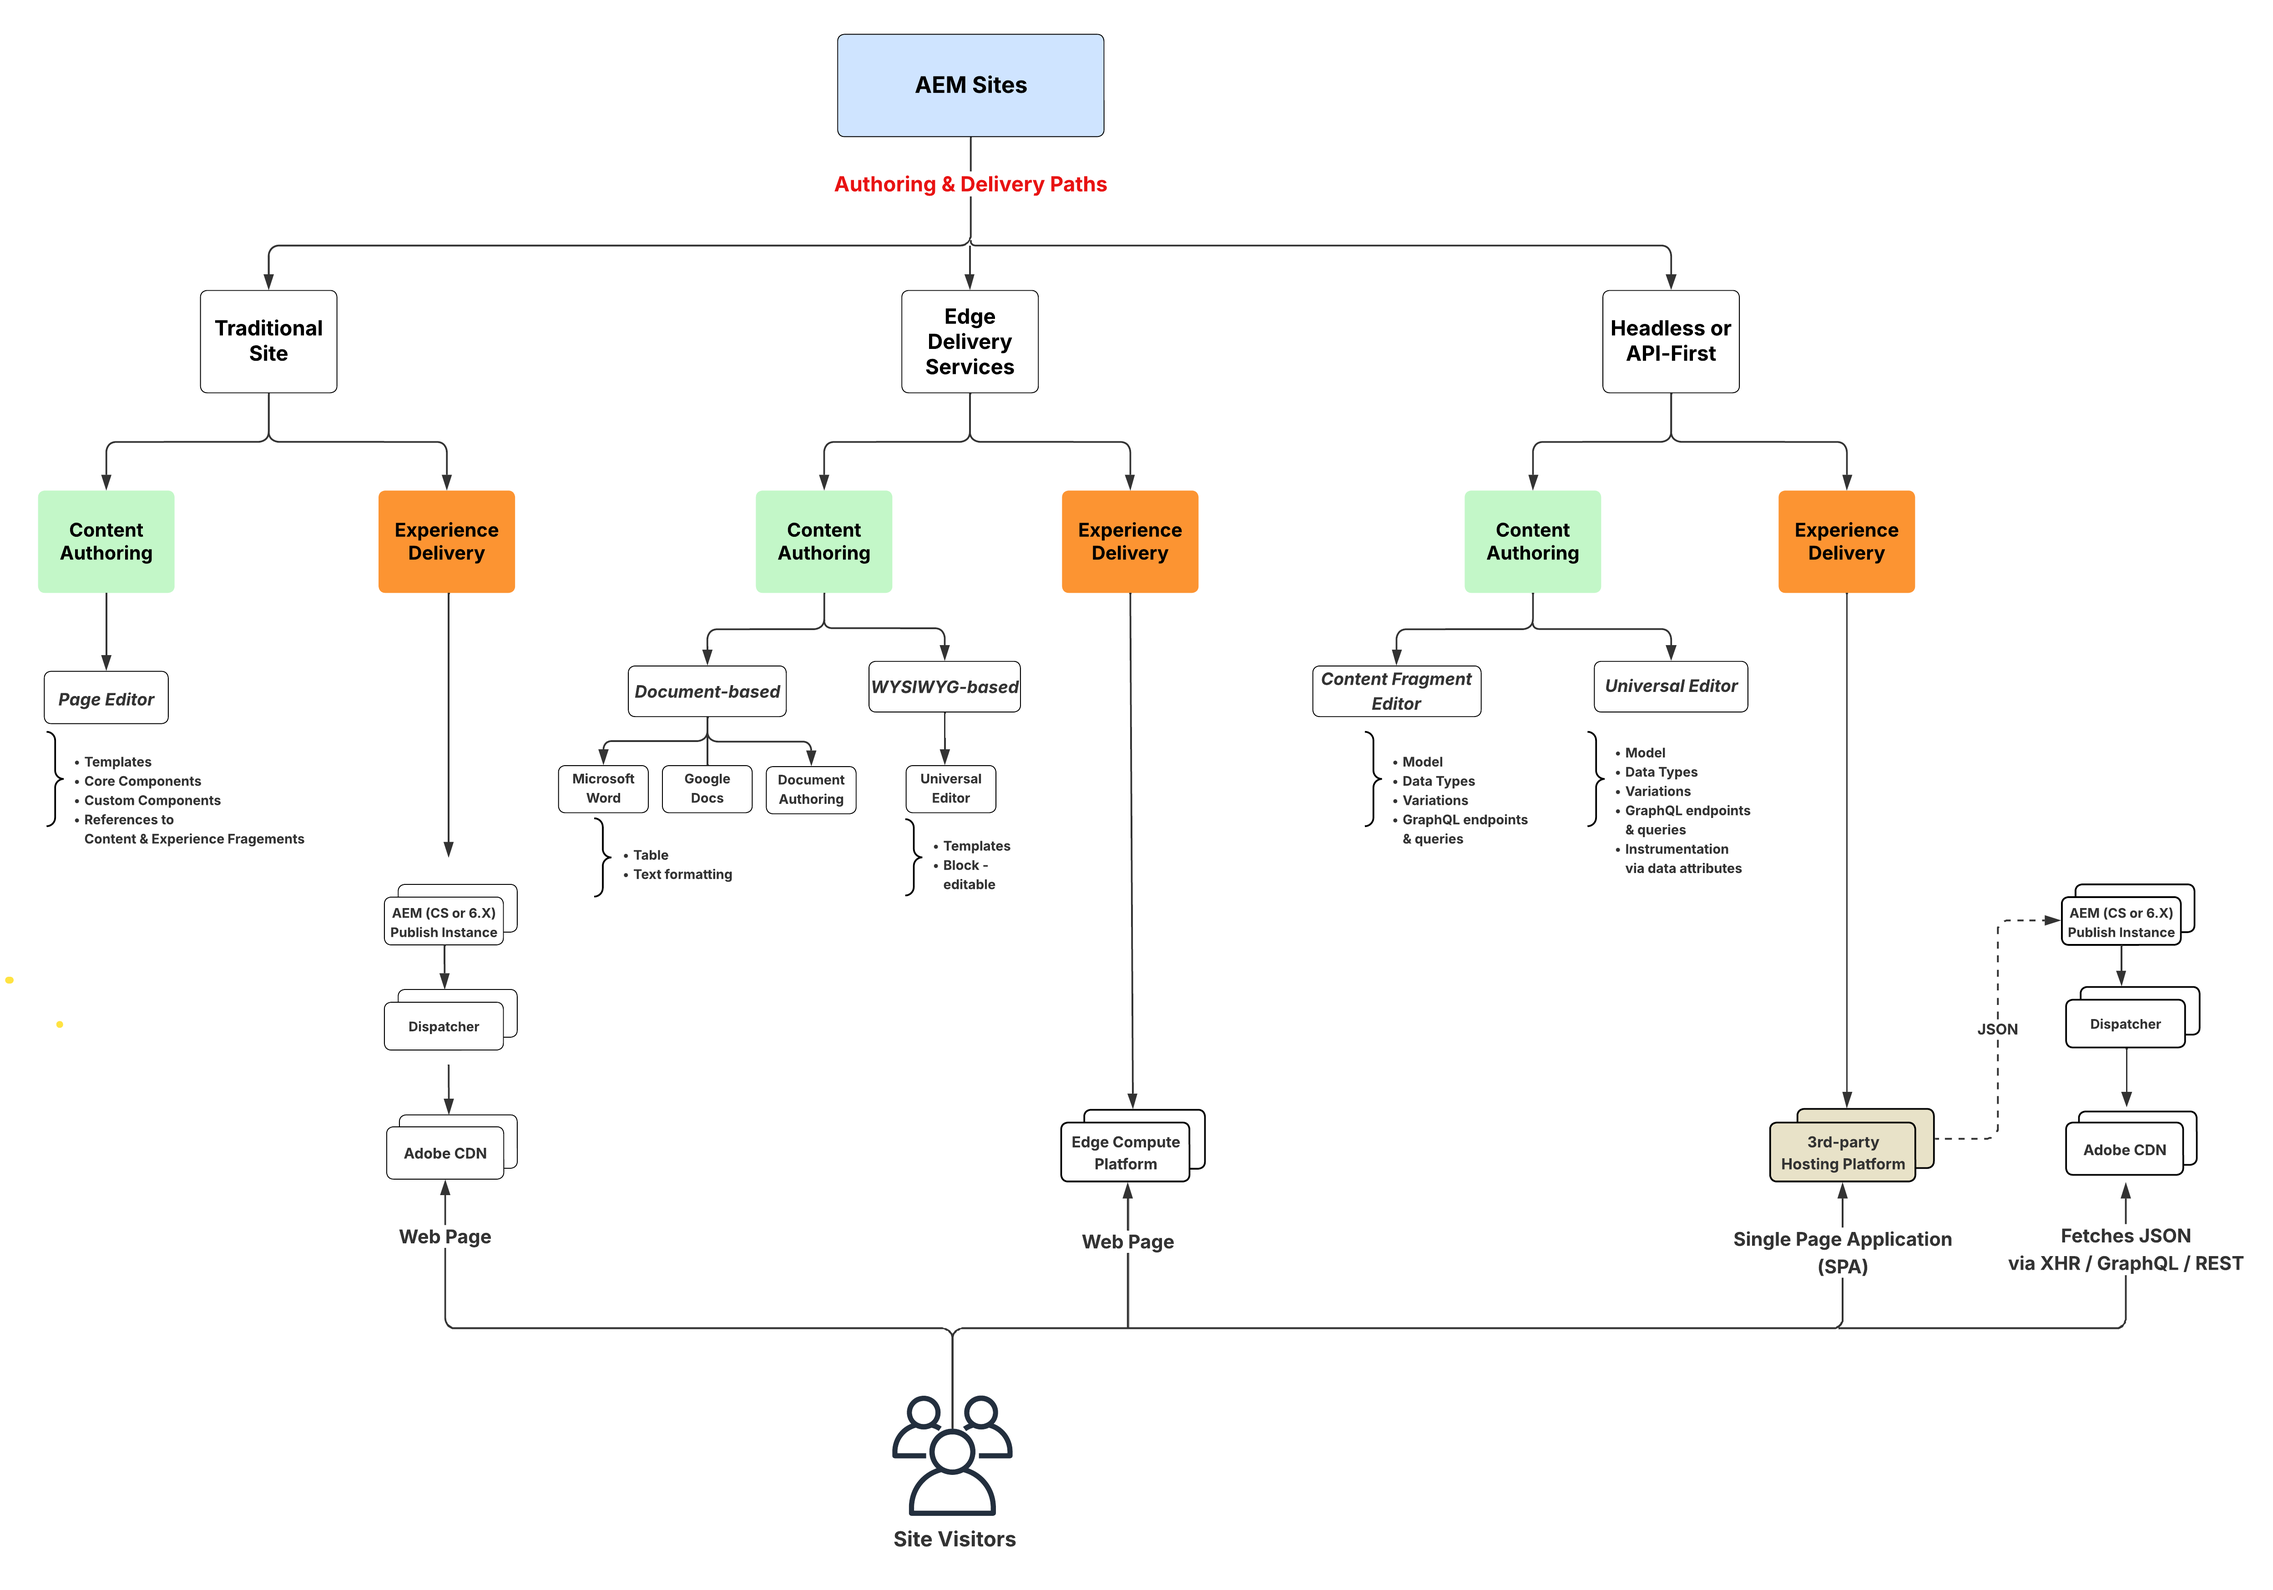
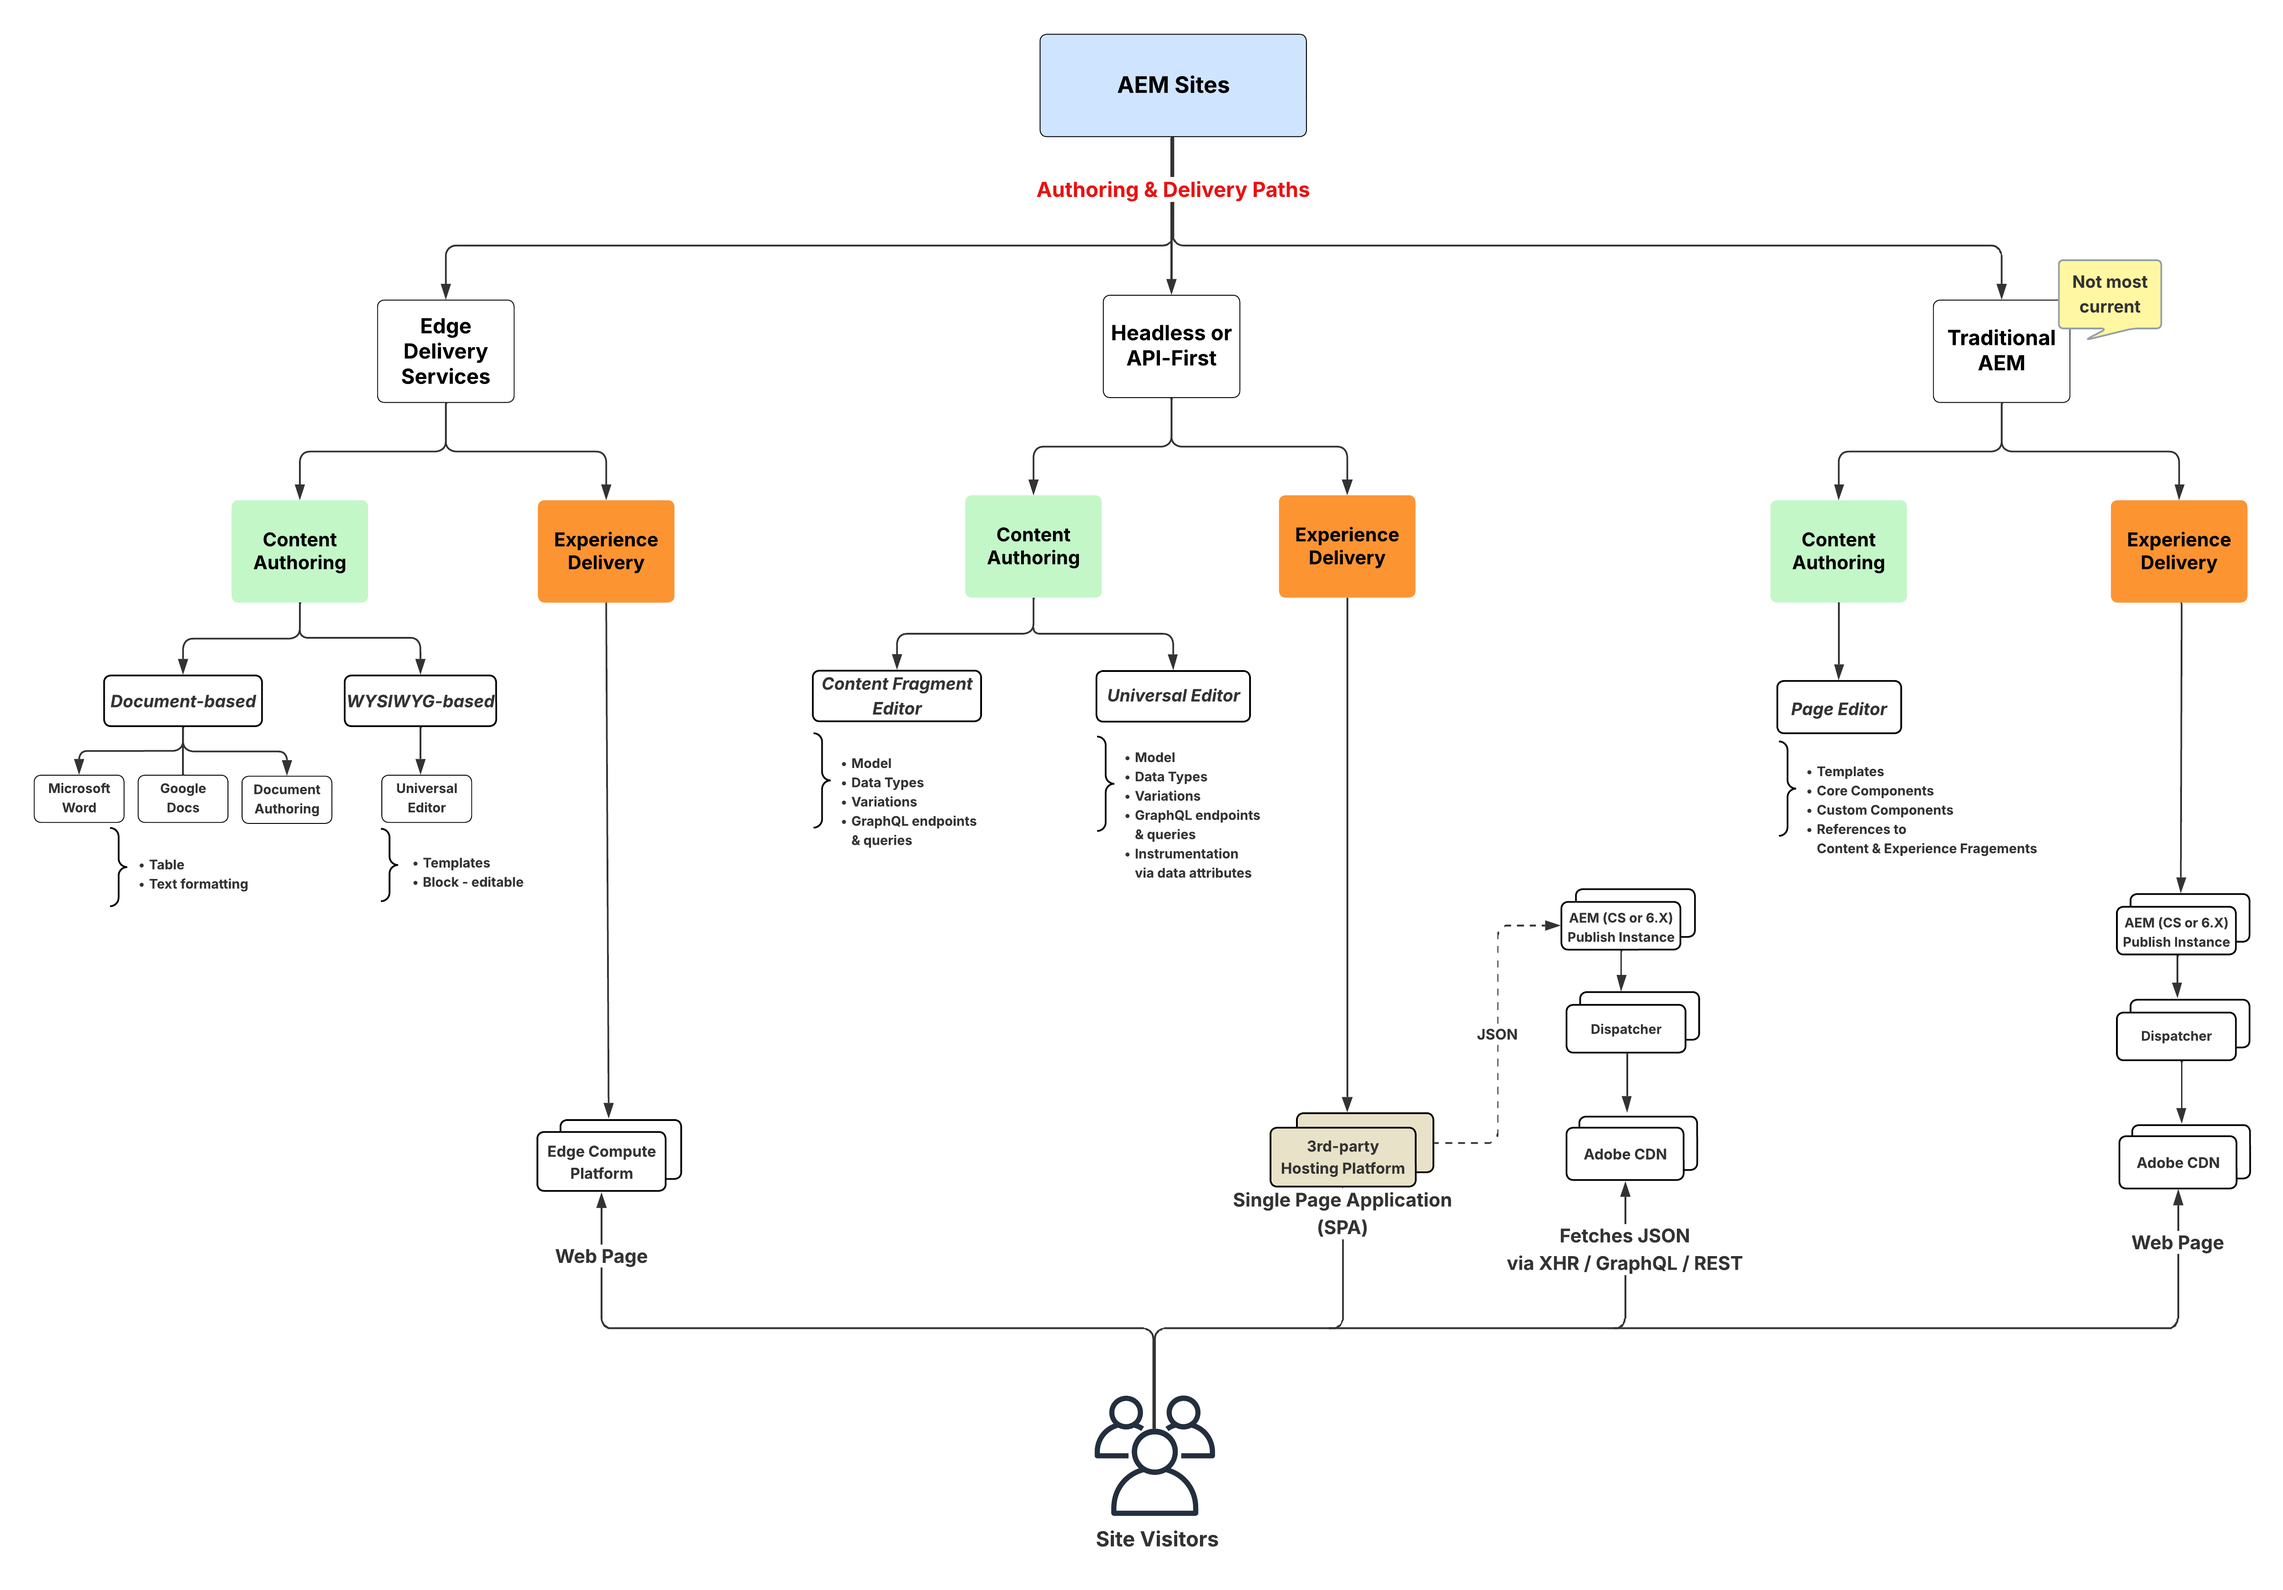
Emphasis Edge Delivery Services for new projects (#1675)
* Revise AEM Sites overview to clarify delivery methods and emphasize Edge Delivery Services for new projects

---------

diff --git a/help/sites/overview.md b/help/sites/overview.md
@@ -17,11 +17,15 @@ Adobe Experience Manager (AEM) Sites is a leading experience management platform
 
 AEM Sites provides three ways to build, author and deliver experiences. Whether you're building full pages, optimizing for edge performance, or powering headless apps, AEM Sites offers flexible options to match your project needs:
 
-1. **Traditional Sites** use AEM Author's Page Editor to author content, which is then activated, and delivered  to end users by AEM Publish as HTML webpages.
-1. **Edge Delivery Services** web sites leverage document-based authoring or Adobe Universal Editor to author content, which is then activated, and then delivered to end users by Edge Delivery Services as HTML webpages.
-1. **Headless/API-first** web experiences use Content Fragment Editor or Universal Editor to author content, which is then activated, and delivered by AEM Publish as JSON.
+1. **Edge Delivery Services** web sites leverage document-based authoring or Adobe Universal Editor to author content, which is then activated, and then delivered to end users by Edge Delivery Services as HTML webpages. This option is primarily for _new and existing projects_ that require high performance, scalability, and speed.
+1. **Headless/API-first** web experiences use Content Fragment Editor or Universal Editor to author content, which is then activated, and delivered by AEM Publish as JSON. This option is primarily for _new and existing projects_ that require headless delivery of content to mobile apps, single-page applications (SPAs), or other headless applications.
+1. **Traditional AEM** is not the most current approach to builder web experiences using AEM Sites. Traditional AEM uses AEM Author's Page Editor to author content, which is then activated, and delivered to end users by AEM Publish as HTML webpages. Traditional AEM is reccommended for _existing projects_.
 
 These options are designed to meet the diverse needs of marketing organizations, to deliver personalized, engaging experiences at high-speed and scale across any channel or device.
+
+>[!IMPORTANT]
+>
+> **Edge Delivery Services** is the latest way to build with AEM Sites. It is designed to deliver high-performance websites at scale, leveraging the power of Adobe's Edge Network.
 
 The following diagram illustrates the different paths:
 
@@ -31,14 +35,16 @@ The following diagram illustrates the different paths:
 
 The following table provides a high-level comparison of the three paths. It focuses on the content authoring and experience delivery nuances of each path.
 
-|            | Traditional Sites            | Edge Delivery Services          | Headless / API-First                        |
+|            |  Edge Delivery Services          | Headless / API-First                        |  Traditional AEM            |
 |---------------------|------------------------------|---------------------------------|---------------------------------------------|
-| **Authoring Tools** | Page Editor                  | Document-based authoring, Universal Editor | Content Fragments, Universal Editor |
-| **Authored Content Store**         | AEM Author (JCR)    | Documents or AEM Author (JCR)                       | AEM Author (JCR)          |
-| **Delivery** | AEM Publish (w/ Adobe CDN + Dispatcher)       | Edge Delivery Services                        |    AEM Publish (w/ Adobe CDN + Dispatcher)      |
-| **Delivery Content Store**         | AEM Publish (JCR)    | Edge Delivery Services  | AEM Publish (JCR)           |
-| **Delivery Format**   | HTML                    | HTML                                  | JSON |
-| **Development Technology**       | Java&trade;, JavaScript, CSS                                        | JavaScript, CSS                | Any (e.g. Swift, React, etc.)                                         |
+| **Best For** |  Websites with high traffic, performance, and scalability needs | Mobile apps, SPAs, and other headless applications | Existing projects (not most current approach) |
+| **Authoring Tools** |  Document-based authoring, Universal Editor | Content Fragments, Universal Editor | Page Editor                  |
+| **Authored Content Store**         |  Documents or AEM Author (JCR)                       | AEM Author (JCR)          |AEM Author (JCR)    |
+| **Delivery** |  Edge Delivery Services                        |    AEM Publish (w/ Adobe CDN + Dispatcher)      | AEM Publish (w/ Adobe CDN + Dispatcher)       |
+| **Delivery Content Store**         | Edge Delivery Services  | AEM Publish (JCR)           |  AEM Publish (JCR)    |
+| **Delivery Format**   |  HTML                                  | JSON | HTML                    |
+| **Development Technology**       |  JavaScript, CSS                | Any (e.g. Swift, React, etc.)        | Java&trade;, JavaScript, CSS    |
+| **Implementation Stage** |  New & Existing Projects | New & Existing Projects | Existing Projects Only |
 
 ## Tutorials
 
@@ -46,11 +52,6 @@ Learn about each of the three paths to build with AEM Sites through the followin
 
 <!-- CARDS
 
-* https://experienceleague.adobe.com/en/docs/experience-manager-learn/getting-started-wknd-tutorial-develop/overview
-  {title = Traditional Sites - WKND Tutorial}
-  {description = Learn how to build a sample AEM Sites project using the WKND tutorial. This guide walks you through project setup, Core Components, Editable Templates, client-side libraries, and component development.}
-  {image = ./assets/aem-wknd-spa-editor-tutorial.png}
-  {target = _self}
 * https://www.aem.live/docs/
   {title = Edge Delivery Services - Guides}
   {description = Explore Edge Delivery Services with comprehensive guides. The Build, Publish, and Launch guides cover everything you need to get started with EDS.}
@@ -61,32 +62,14 @@ Learn about each of the three paths to build with AEM Sites through the followin
   {description = Learn how to build headless applications powered by AEM content. Tutorials cover frameworks like iOS, Android, and React—choose what fits your stack.}
   {image = ./assets/headless.png}
   {target = _self}
+* https://experienceleague.adobe.com/en/docs/experience-manager-learn/getting-started-wknd-tutorial-develop/overview
+  {title = Traditional AEM - WKND Tutorial}
+  {description = Learn how to build a sample AEM Sites project using the WKND tutorial. This guide walks you through project setup, Core Components, Editable Templates, client-side libraries, and component development.}
+  {image = ./assets/aem-wknd-spa-editor-tutorial.png}
+  {target = _self}
 -->
 <!-- START CARDS HTML - DO NOT MODIFY BY HAND -->
 <div class="columns">
-    <div class="column is-half-tablet is-half-desktop is-one-third-widescreen" aria-label="Traditional Sites - WKND Tutorial">
-        <div class="card" style="height: 100%; display: flex; flex-direction: column; height: 100%;">
-            <div class="card-image">
-                <figure class="image x-is-16by9">
-                    <a href="https://experienceleague.adobe.com/en/docs/experience-manager-learn/getting-started-wknd-tutorial-develop/overview" title="Traditional Sites - WKND Tutorial" target="_self" rel="referrer">
-                        <img class="is-bordered-r-small" src="./assets/aem-wknd-spa-editor-tutorial.png" alt="Traditional Sites - WKND Tutorial"
-                             style="width: 100%; aspect-ratio: 16 / 9; object-fit: cover; overflow: hidden; display: block; margin: auto;">
-                    </a>
-                </figure>
-            </div>
-            <div class="card-content is-padded-small" style="display: flex; flex-direction: column; flex-grow: 1; justify-content: space-between;">
-                <div class="top-card-content">
-                    <p class="headline is-size-6 has-text-weight-bold">
-                        <a href="https://experienceleague.adobe.com/en/docs/experience-manager-learn/getting-started-wknd-tutorial-develop/overview" target="_self" rel="referrer" title="Traditional Sites - WKND Tutorial">Traditional Sites - WKND Tutorial</a>
-                    </p>
-                    <p class="is-size-6">Learn how to build a sample AEM Sites project using the WKND tutorial. This guide walks you through project setup, Core Components, Editable Templates, client-side libraries, and component development.</p>
-                </div>
-                <a href="https://experienceleague.adobe.com/en/docs/experience-manager-learn/getting-started-wknd-tutorial-develop/overview" target="_self" rel="referrer" class="spectrum-Button spectrum-Button--outline spectrum-Button--primary spectrum-Button--sizeM" style="align-self: flex-start; margin-top: 1rem;">
-                    <span class="spectrum-Button-label has-no-wrap has-text-weight-bold">Learn more</span>
-                </a>
-            </div>
-        </div>
-    </div>
     <div class="column is-half-tablet is-half-desktop is-one-third-widescreen" aria-label="Edge Delivery Services - Guides">
         <div class="card" style="height: 100%; display: flex; flex-direction: column; height: 100%;">
             <div class="card-image">
@@ -125,9 +108,32 @@ Learn about each of the three paths to build with AEM Sites through the followin
                     <p class="headline is-size-6 has-text-weight-bold">
                         <a href="https://experienceleague.adobe.com/en/docs/experience-manager-learn/getting-started-with-aem-headless/overview" target="_self" rel="referrer" title="Headless/API-First - Tutorials">Headless/API-First - Tutorials</a>
                     </p>
-                    <p class="is-size-6">Learn how to build headless applications powered by AEM content. Tutorials cover frameworks like iOS, Android&trade;, and React—choose what fits your stack.</p>
+                    <p class="is-size-6">Learn how to build headless applications powered by AEM content. Tutorials cover frameworks like iOS, Android, and React—choose what fits your stack.</p>
                 </div>
                 <a href="https://experienceleague.adobe.com/en/docs/experience-manager-learn/getting-started-with-aem-headless/overview" target="_self" rel="referrer" class="spectrum-Button spectrum-Button--outline spectrum-Button--primary spectrum-Button--sizeM" style="align-self: flex-start; margin-top: 1rem;">
+                    <span class="spectrum-Button-label has-no-wrap has-text-weight-bold">Learn more</span>
+                </a>
+            </div>
+        </div>
+    </div>
+    <div class="column is-half-tablet is-half-desktop is-one-third-widescreen" aria-label="Traditional AEM - WKND Tutorial">
+        <div class="card" style="height: 100%; display: flex; flex-direction: column; height: 100%;">
+            <div class="card-image">
+                <figure class="image x-is-16by9">
+                    <a href="https://experienceleague.adobe.com/en/docs/experience-manager-learn/getting-started-wknd-tutorial-develop/overview" title="Traditional AEM - WKND Tutorial" target="_self" rel="referrer">
+                        <img class="is-bordered-r-small" src="./assets/aem-wknd-spa-editor-tutorial.png" alt="Traditional AEM - WKND Tutorial"
+                             style="width: 100%; aspect-ratio: 16 / 9; object-fit: cover; overflow: hidden; display: block; margin: auto;">
+                    </a>
+                </figure>
+            </div>
+            <div class="card-content is-padded-small" style="display: flex; flex-direction: column; flex-grow: 1; justify-content: space-between;">
+                <div class="top-card-content">
+                    <p class="headline is-size-6 has-text-weight-bold">
+                        <a href="https://experienceleague.adobe.com/en/docs/experience-manager-learn/getting-started-wknd-tutorial-develop/overview" target="_self" rel="referrer" title="Traditional AEM - WKND Tutorial">Traditional AEM - WKND Tutorial</a>
+                    </p>
+                    <p class="is-size-6">Learn how to build a sample AEM Sites project using the WKND tutorial. This guide walks you through project setup, Core Components, Editable Templates, client-side libraries, and component development.</p>
+                </div>
+                <a href="https://experienceleague.adobe.com/en/docs/experience-manager-learn/getting-started-wknd-tutorial-develop/overview" target="_self" rel="referrer" class="spectrum-Button spectrum-Button--outline spectrum-Button--primary spectrum-Button--sizeM" style="align-self: flex-start; margin-top: 1rem;">
                     <span class="spectrum-Button-label has-no-wrap has-text-weight-bold">Learn more</span>
                 </a>
             </div>
